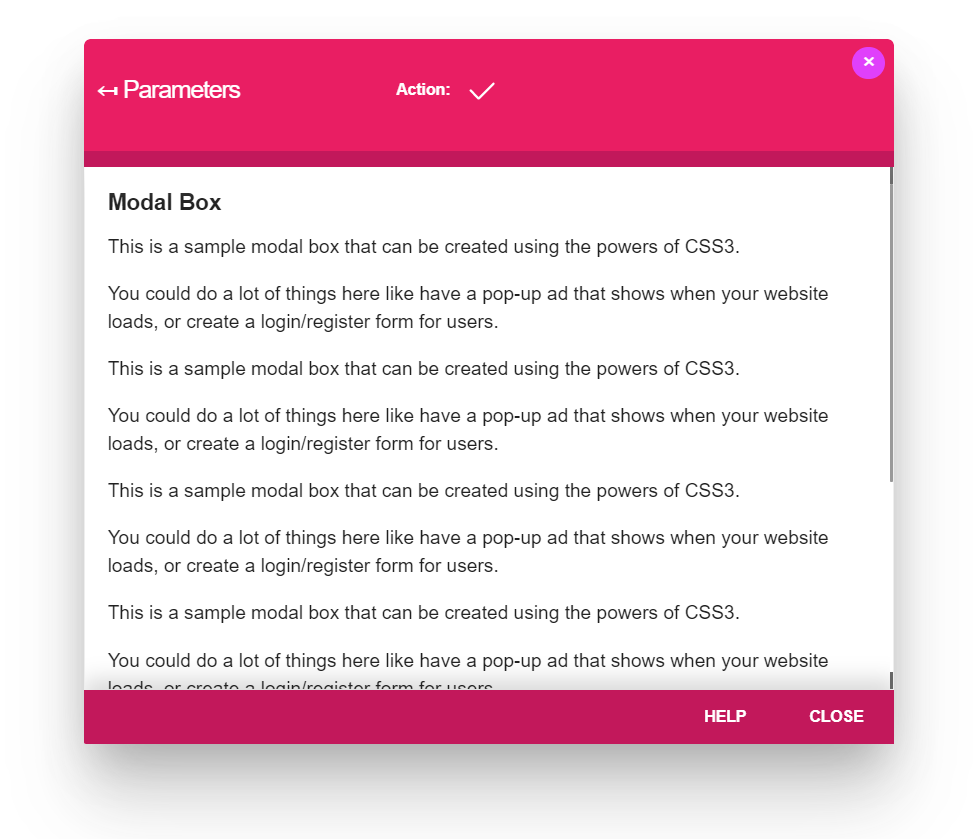
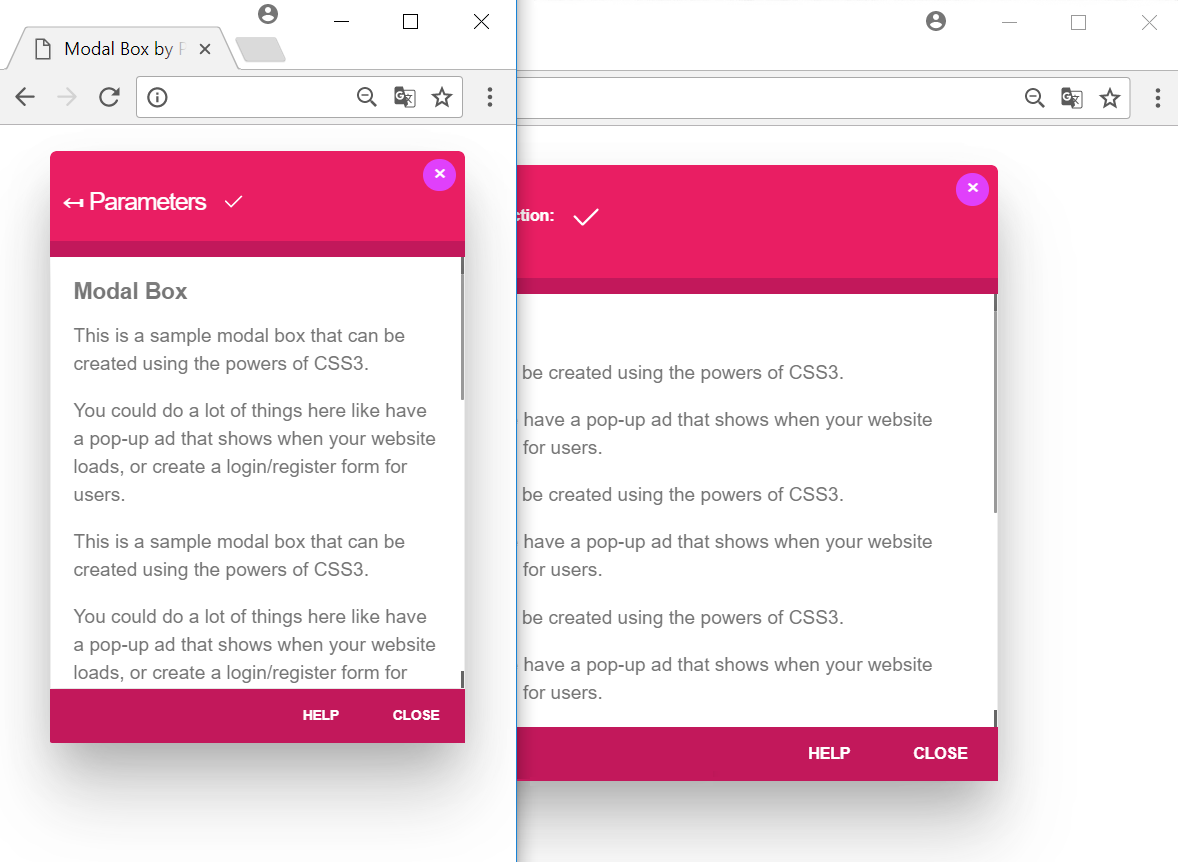
Updates
* Corrects emoji default styles;
* Corrects a little gap before the footer-modal due to the 'display-inline' property;
* Corrects default width of the modal boxes;
* Reduces the file size by removing some uncessary rules.
* Adds ul styles support into the main content of the modal boxes;
* Adds some styles into the sample template.css;
* Updates the readme file with a sample of this compoment integration into the default Textpattern template.;
* Adds a screen shot for the custom template.css file.

diff --git a/css/modal-box.min.css b/css/modal-box.min.css
@@ -1,2 +1,2 @@
 @charset "UTF-8";
[2 lines of base64/hex data omitted]

diff --git a/css/custom.min.css b/css/custom.min.css
@@ -1,1 +1,1 @@
-.header-modal span{display:inline-table;display:inline-block;width:50%;text-align:center;font-size:70%}.header-modal a{display:inline-block;width:34px;height:34px;margin:0 0 0 .5em;text-decoration:none;line-height:32px;-webkit-border-radius:50%;-khtml-border-radius:50%;border-radius:50%}.header-modal a:hover,.header-modal a:active{-webkit-box-shadow:0 0 2px #0288d1;-moz-box-shadow:0 0 2px #0288d1;-khtml-box-shadow:0 0 2px #0288d1;box-shadow:0 0 2px #0288d1;-webkit-transform:translate(1.2,1.2);-webkit-transition:transform 200ms ease-out;-moz-transform:translate(1.2,1.2);-moz-transition:transform 200ms ease-out;-ms-transform:translate(1.2,1.2);-ms-transition:transform 200ms ease-out;transform:translate(1.2,1.2);transition:transform 200ms ease-out;-webkit-tap-highlight-color:transparent}.header-modal svg{display:inline-block;width:32px;height:32px;margin:0;vertical-align:middle;text-align:center;color:#aaa;font-size:2em;cursor:pointer}.header-modal path{fill:#aaa}span[class*="-sign"]{display:inline-table;display:inline-block;width:30px;height:28px;margin:0 5px 0 0;padding:0;vertical-align:middle;text-align:center;color:#fff;font:normal normal normal 22px/28px Arial,sans-serif}span[class*="-sign"] strong{display:-moz-inline-box;display:inline-block}.error-sign{background:#e27575}html .info-sign{background:#9ea8dd}.success-sign{background:#00c853}.warning-sign{background:#fbc02d}@media only screen and (max-width:720px){html .header-modal span{width:auto;margin:0}.header-modal a{float:none;width:24px;height:24px;margin:0 0 0 .5em;vertical-align:middle}.header-modal svg{width:22px;height:22px;vertical-align:baseline}}
+.header-modal span{display:inline-table;display:inline-block;width:50%;text-align:center;font-size:70%}.header-modal a{display:inline-block;width:34px;height:34px;margin:0 0 0 .5em;text-decoration:none;line-height:32px;-webkit-border-radius:50%;-khtml-border-radius:50%;border-radius:50%}.header-modal a:hover,.header-modal a:active{-webkit-box-shadow:0 0 2px #0288d1;-moz-box-shadow:0 0 2px #0288d1;-khtml-box-shadow:0 0 2px #0288d1;box-shadow:0 0 2px #0288d1;-webkit-transform:translate(1.2,1.2);-webkit-transition:transform 200ms ease-out;-moz-transform:translate(1.2,1.2);-moz-transition:transform 200ms ease-out;-ms-transform:translate(1.2,1.2);-ms-transition:transform 200ms ease-out;transform:translate(1.2,1.2);transition:transform 200ms ease-out;-webkit-tap-highlight-color:transparent}.header-modal svg{display:inline-block;width:32px;height:32px;margin:0;vertical-align:middle;text-align:center;color:#aaa;font-size:2em;cursor:pointer}.header-modal path{fill:#aaa}span[class*="-sign"]{display:inline-table;display:inline-block;width:30px;height:28px;margin:0 5px 0 0;padding:0;vertical-align:middle;text-align:center;color:#fff;font:normal normal normal 22px/28px sans-serif}span[class*="-sign"] strong{display:-moz-inline-box;display:inline-block;font-family:'Cambria Math','Apple Symbols'}.error-sign{background:#e27575}html .info-sign{background:#9ea8dd}.success-sign{background:#00c853}.warning-sign{background:#fbc02d}@media only screen and (max-width:720px){html .header-modal span{width:auto;margin:0}.header-modal a{float:none;width:24px;height:24px;margin:0 0 0 .5em;vertical-align:middle}.header-modal svg{width:22px;height:22px;vertical-align:baseline}}

diff --git a/demo.html b/demo.html
@@ -353,8 +353,12 @@ body .modal-dialog {
 
 	overflow-y: visible;
 	overflow-y: auto;
-	display: inline-block;
-    width: auto;
+
+	display: block;
+
+	width: auto;
+    width: 94.25%;
+	width: calc(100% - 41px);
 
     /* List of gracefull degradation max height */
 	max-height: 14em;
@@ -362,15 +366,14 @@ body .modal-dialog {
 
 	height: 90%;
 	margin: 0;
-	padding: 5px 20px 50px 20px;
+	padding: 5px 20px 20px 20px;
     border-right: 1px solid #eee;
     border-left: 1px solid #eee;
-    color: #212121
+    color: #212121;
+	hyphens:auto
 }
 
 .modal-dialog .modal-message {
-	max-width: 36em;
-    margin-bottom: 0;
     border: 1px solid #eee;
 
     -webkit-border-radius: 6px 6px 0 0;
@@ -379,11 +382,7 @@ body .modal-dialog {
 	border-radius: 6px 6px 0 0
 }
 
-.modal-dialog .modal-message .inner-dialog {
-    width: auto;
-    padding: 5px 0 5px 20px;
-    border: none
-}
+.modal-dialog .modal.modal-message .inner-dialog {border: 0}
 
 /**
  * Prevent headings resizing
@@ -397,17 +396,11 @@ body .modal-dialog {
 /**
  * Restores the paragraph font size
  */
-.modal-dialog .inner-dialog p {
+.modal-dialog .inner-dialog p,
+	.modal-dialog .inner-dialog ul {
 	font-size: 85%;
-	line-height: 1.5;
-    hyphens: auto
+	line-height: 1.5
 }
-
-:-webkit-any(.modal-dialog) p {font-size: 85%}
-
-:-moz-any(.modal-dialog) p {font-size: 85%}
-
-:matches(.inner-dialog) p {font-size: 85%}
 
 /**
  * Styling the signs for the Modal Message Box
@@ -462,7 +455,6 @@ html .info-sign {background: #9ea8dd}
 	height: 3em;
     height: 3rem;
 
-	margin: -2.5px auto 0;
 	background: #0288d1;
 	text-align: right;
     border-right: 1px solid #0288d1;
@@ -525,10 +517,10 @@ html .info-sign {background: #9ea8dd}
  */
 @media only screen and (max-width:720px) {
 
-    .modal-dialog .modal.modal-message .inner-dialog {
-        max-height:none;
-        height:auto
-    }
+	.modal-dialog .modal.modal-message .inner-dialog {
+		max-height:none;
+		height:auto
+	}
 	.header-modal {max-height: 11vmax}
 	html .header-modal span {
 		width: auto;
@@ -547,17 +539,17 @@ html .info-sign {background: #9ea8dd}
 		vertical-align: baseline
 	}
 	.modal-dialog .modal {
-        width: 80%;
+		width: 80%;
 		margin: 5vh auto 3em;
 		margin: calc(15vh - 50px) auto 3em;
 		margin: 5vmin auto 3em
 	}
 	.footer-modal {
-        -webkit-box-shadow: 0 -10px 20px rgba(225, 225, 225, .95);
-        -moz-box-shadow: 0 -10px 20px rgba(225, 225, 225, .95);
-        -khtml-box-shadow: 0 -10px 20px rgba(225, 225, 225, .95);
-        box-shadow: 0 -10px 20px rgba(225, 225, 225, .95)
-    }
+		-webkit-box-shadow: 0 -10px 20px rgba(225, 225, 225, .95);
+		-moz-box-shadow: 0 -10px 20px rgba(225, 225, 225, .95);
+		-khtml-box-shadow: 0 -10px 20px rgba(225, 225, 225, .95);
+		box-shadow: 0 -10px 20px rgba(225, 225, 225, .95)
+	}
 	.footer-modal a {font-size: 60%}
 	.mob-hide {display: none}
 
@@ -570,14 +562,14 @@ html .info-sign {background: #9ea8dd}
  */
 :-o-prefocus,
 html .modal-dialog .inner-dialog {
-    /* 1.° */
+	/* 1.° */
 	height: 100%;
 	max-height: 100%
 }
 
 :-o-prefocus,
 html .footer-modal a {
-    /* 2.° */
+	/* 2.° */
 	display: inline-block;
 	padding: .8em 2em
 }

diff --git a/css/modal-box.css b/css/modal-box.css
@@ -285,8 +285,12 @@ body .modal-dialog {
 
 	overflow-y: visible;
 	overflow-y: auto;
-	display: inline-block;
-    width: auto;
+
+	display: block;
+
+    width: 94.25%;
+	width: auto;
+	width: calc(100% - 41px);
 
     /* List of gracefull degradation max height */
 	max-height: 14em;
@@ -294,14 +298,14 @@ body .modal-dialog {
 
 	height: 90%;
 	margin: 0;
-	padding: 5px 20px 50px 20px;
+	padding: 5px 20px 20px 20px;
     border-right: 1px solid #eee;
     border-left: 1px solid #eee;
-    color: #212121
+    color: #212121;
+	hyphens:auto
 }
 
 .modal-dialog .modal.modal-message {
-    margin-bottom: 0;
     border: 1px solid #eee;
 
     -webkit-border-radius: 6px 6px 0 0;
@@ -310,11 +314,7 @@ body .modal-dialog {
 	border-radius: 6px 6px 0 0
 }
 
-.modal-dialog .modal.modal-message .inner-dialog {
-    width: 90%;
-    padding: 5px 10px 5px 20px;
-    border: none
-}
+.modal-dialog .modal.modal-message .inner-dialog {border: 0}
 
 /**
  * Prevent headings resizing
@@ -328,17 +328,11 @@ body .modal-dialog {
 /**
  * Restores the paragraph font size
  */
-.modal-dialog .inner-dialog p {
+.modal-dialog .inner-dialog p,
+	.modal-dialog .inner-dialog ul {
 	font-size: 85%;
-	line-height: 1.5;
-    hyphens: auto
+	line-height: 1.5
 }
-
-:-webkit-any(.modal-dialog) p {font-size: 85%}
-
-:-moz-any(.modal-dialog) p {font-size: 85%}
-
-:matches(.inner-dialog) p {font-size: 85%}
 
 /**
  * The footer of the modal box
@@ -350,7 +344,6 @@ body .modal-dialog {
 	height: 3em;
     height: 3rem;
 
-	margin: -2.5px auto 0;
 	background: #0288d1;
 	text-align: right;
     border-right: 1px solid #0288d1;

diff --git a/css/template.css b/css/template.css
@@ -27,6 +27,11 @@
 .modal-dialog .modal {border-color: #e91e63}
 
 /**
+ * Color of the entire message border
+ */
+.modal-dialog .modal.modal-message {border-color: #eee}
+
+/**
  * Color for the main text content
  */
 .modal-dialog .inner-modal {color: #212121}
@@ -69,7 +74,8 @@
  */
 .header-modal a:hover,
 	.header-modal a:active {
-		color: #e040fb;
+		background: #e040fb;
+		color: #fff;
 		-webkit-box-shadow:0 0 2px #e040fb;
 		-moz-box-shadow:0 0 2px #e040fb;
 		-khtml-box-shadow:0 0 2px #e040fb;
@@ -80,12 +86,12 @@
  * SVG icon color within the modal box header
  */
 html .header-modal a:hover svg,
-	html .header-modal a:active svg {color: #e040fb}
+	html .header-modal a:active svg {color: #fff}
 
 .header-modal svg path {fill: #fff}
 
 .header-modal a:hover svg path,
-	.header-modal a:active svg path {fill: #e040fb}
+	.header-modal a:active svg path {fill: #fff}
 
 /**
  * The 'Close' button
@@ -105,7 +111,7 @@ html .header-modal a:hover svg,
  * The main content of the modal box
  */
 .modal-dialog .inner-dialog {
-	background: #fff
+	background: #fff;
 	color: #757575
 }
 

diff --git a/css/custom.css b/css/custom.css
@@ -81,13 +81,12 @@ span[class*="-sign"] {
 	vertical-align: middle;
 	text-align: center;
 	color: #fff;
-	font: normal normal normal 22px/28px Arial, sans-serif
+	font: normal normal normal 22px/28px 'Cambria Math', 'Apple Symbols'
 }
     
 span[class*="-sign"] strong {
     display: -moz-inline-box;
-    display: inline-block;
-	font-family: 'Cambria Math', 'Apple Symbols'
+    display: inline-block
 }
 
 /**

diff --git a/README.md b/README.md
@@ -59,10 +59,18 @@ An independant `demo.html` file with full styles is available for integration ex
 Remove all the code between `<style>` and `</style>` from the `demo.html` page, then add before the final `</head>` tag:
 
     <link rel="stylesheet" href="css/modal-box.min.css" media="screen">
+	<!-- Facultative: for optional elements -->
     <link rel="stylesheet" href="css/custom.min.css" media="screen">
+	<!-- Sample custom colors styling (overwrite default) -->
     <link rel="stylesheet" href="css/template.css" media="screen">
 
-![Template sample](https://github.com/cara-tm/modal_box/raw/master/template.png "The sample Template result")
+![Template sample](https://github.com/cara-tm/modal_box/raw/master/template.png "The sample Template result").
+
+## Integration example
+
+Here is an integration test within the default Textpattern template (v 4.7-dev) without any kind of conflicts even by putting the modal's styles at the beginning of the default.css file:
+
+![TXP intégration sample](https://github.com/cara-tm/modal_box/raw/master/txp-integration.png "The sample Template result").
 
 ## IE 8 and below support
 
